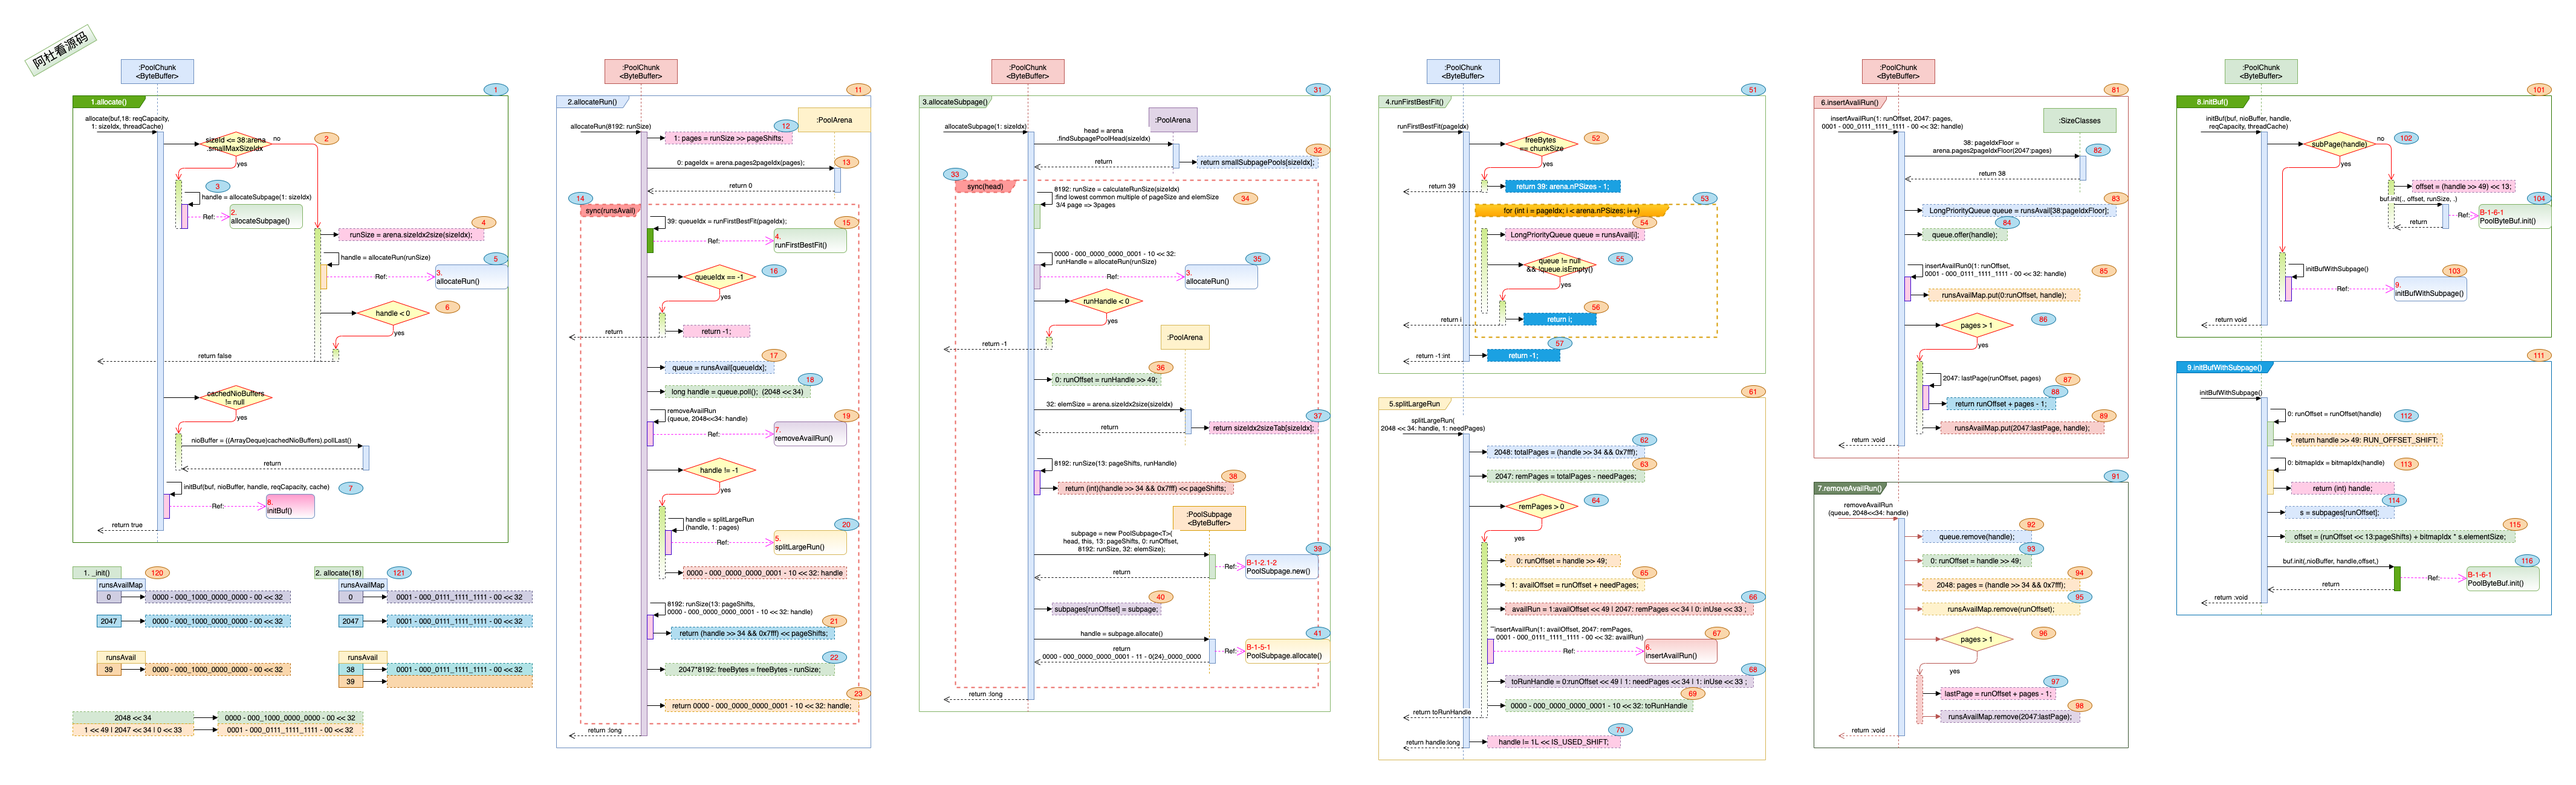
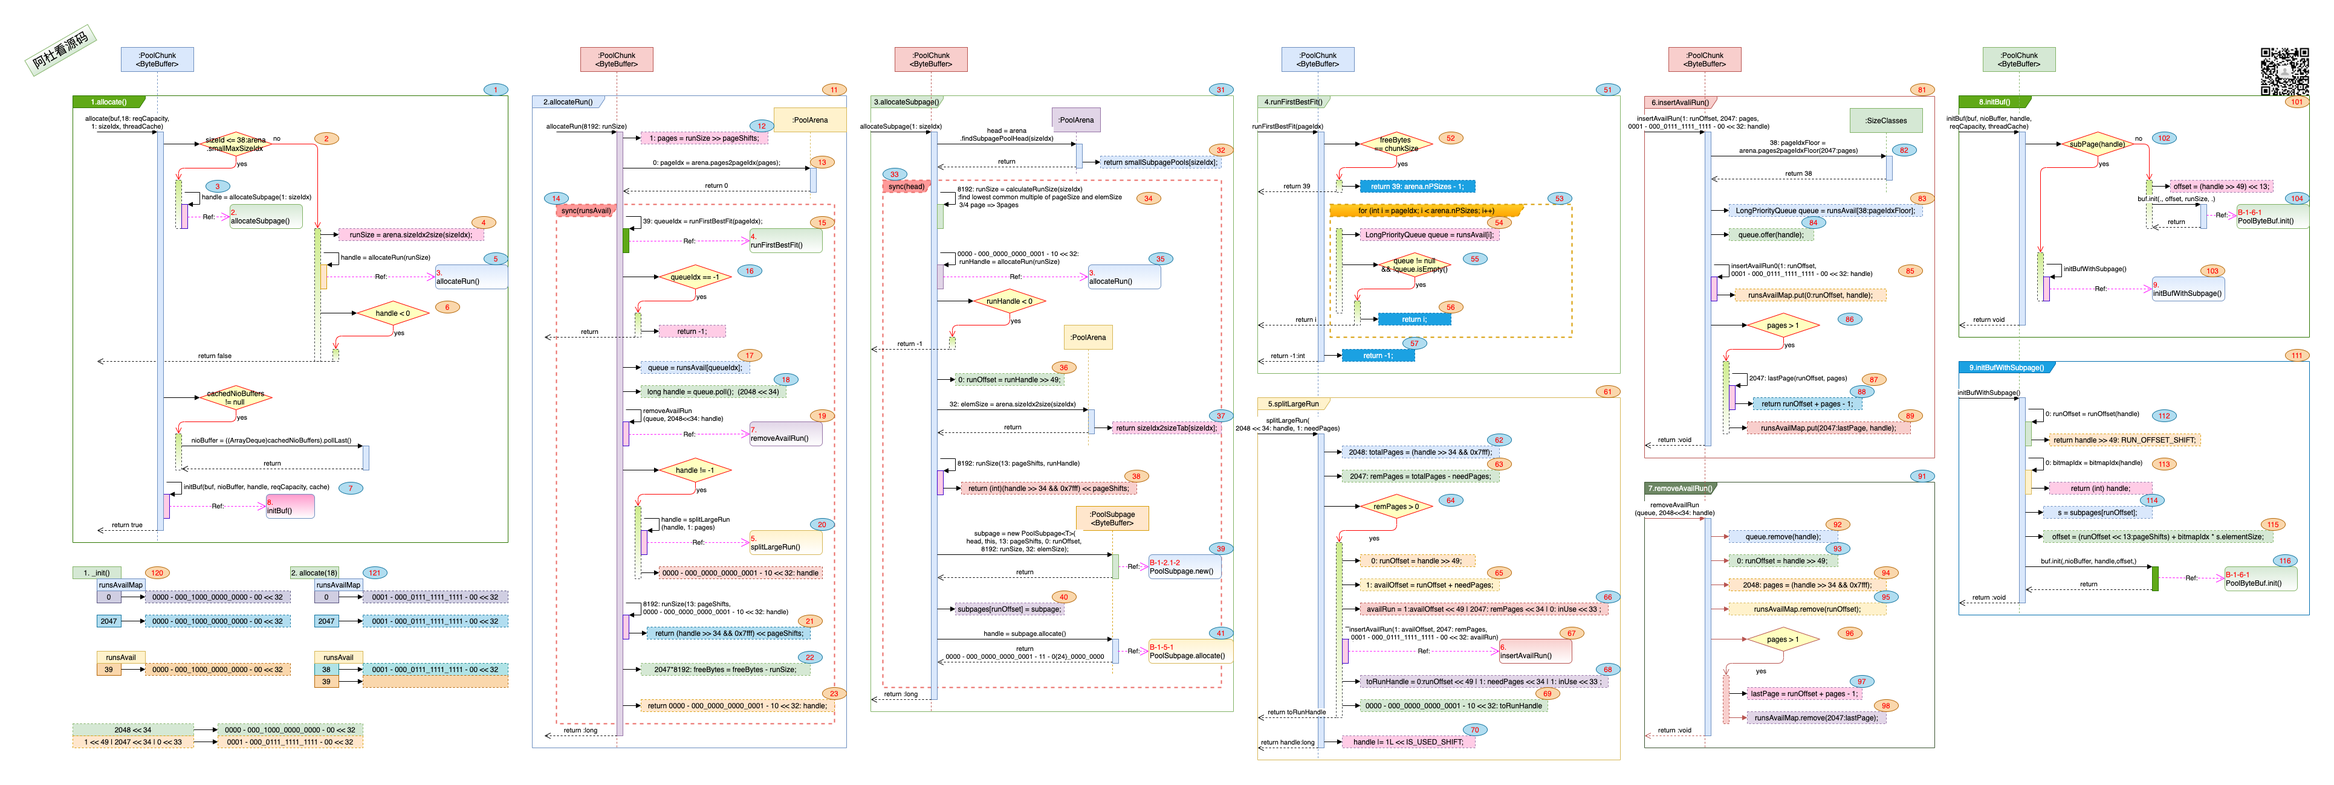
1. PoolArena开始编写. 2. 增加微信公众号图片.

diff --git a/netty_4.1.66/5.PoolArena.html b/netty_4.1.66/5.PoolArena.html
@@ -767,9 +767,9 @@ g[data-mml-node="xypic"] path {
   stroke-width: inherit;
 }
  :root {--mermaid-font-zoom:1em ;}  @media print { @page {margin: 0 0 0 0;} body.typora-export {padding-left: 0; padding-right: 0;} #write {padding:0;}}
-</style><title>4.PoolChunkList</title>
+</style><title>5.PoolArena</title>
 </head>
 <body class='typora-export'><div class='typora-export-content'>
-<div id='write'  class=''><h2 id='nettypooledbytebuf4poolchunklist'><span>Netty_PooledByteBuf_4.PoolChunkList</span></h2><h3 id='一-干什么'><span>一. 干什么?</span></h3><ol start='' ><li><span>按楼层下的空置率来进行分级管理, 大远看去一幢楼, 最空旷的楼层在最下面, 最拥挤的楼层在最上面.  </span></li><li><span>楼层所属的分级是变化的, 空置率变化后, 会在不同的分级间游走. 没血了就回家, 有血了就往上冲.</span></li></ol><p>&nbsp;</p><h3 id='二-打算怎么干'><span>二. 打算怎么干? </span></h3><ol start='' ><li><p><span>通过定义不同的空置率级别(min, max), 将整个楼分成不同的级别, 第个级别(PoolChunkList)下的空置率都在(min, max)范围内.</span></p></li><li><p><span>随着楼层中空间的分配与回收, 空置率发生变化, 判断是否在不同级别(PoolChunkList)间是升还是降.</span></p><p>&nbsp;</p></li></ol><h3 id='三-具体实现'><span>三. 具体实现:</span></h3><ol start='' ><li><h4 id='先看下初始化方法与数据结构'><span>先看下初始化方法与数据结构:</span></h4><blockquote><p><img src="./images/3.PooledByteBufAllocator/2.DataStructure-3.PoolChunkList.png" referrerpolicy="no-referrer" alt="PoolChunkList初始化及数据结构"></p><ul><li><p><span>图中标号: </span><strong><span>1</span></strong><span>. 属于那幢楼(arena).</span></p></li><li><p><span>图中标号: </span><strong><span>2</span></strong><span>. 最高的那一级(nextList)是什么?</span></p></li><li><p><span>图中标号: </span><strong><span>3, 4</span></strong><span>. 闲置率的边界的百分比(minUsage, maxUsage). </span></p></li><li><p><span>图中标号: </span><strong><span>5</span></strong><span>. 该分级下最大能满足的空间分配是多少(maxCapacity). 闲置率边界是用来进行分级管理的, maxCapacity表示的是可分配空间, 有可能分配完了, 会进行跳级.</span></p></li><li><p><span>图中标号: </span><strong><span>6, 7</span></strong><span>. 计算闲置的边界字节数.</span></p></li><li><p><span>图中标号: </span><strong><span>11</span></strong><span>. 一幢楼的分级管理(PoolArena), 从qInit到q100分了6级来管理. 1-5表示随着分配, 楼层的空置率的变化及在不同的分级(PoolChunkList)内上升, 6-9表示随着空间的释放, 空置率越来越高, 在不同的分级中的下降. </span></p><p><strong><span>这里要注意:</span></strong><span> 10.free, 因为q000的prev是空的, 所以如果楼层如果空置超过q000的freeMaxThreshold, 16777215----15.9M, 也就是16M空间都是空置时, 该楼层不会下降到qInit, 而是直接从管理分级中移除了. </span></p><figure><table><thead><tr><th style='text-align:center;' ><span>分级</span></th><th style='text-align:center;' ><span>minUsage</span></th><th style='text-align:center;' ><span>maxUsage</span></th><th style='text-align:center;' ><span>freeMinThreshold</span></th><th style='text-align:center;' ><span>freeMaxThreshold</span></th><th style='text-align:center;' ><span>maxCapacity</span></th></tr></thead><tbody><tr><td style='text-align:center;' ><span>qInit</span></td><td style='text-align:center;' ><span>-2147483648</span></td><td style='text-align:center;' ><span>25</span></td><td style='text-align:center;' ><span>12750684----12.1M</span></td><td style='text-align:center;' ><span>2147483647----2048M</span></td><td style='text-align:center;' ><span>16609443----15.8M</span></td></tr><tr><td style='text-align:center;' ><span>q000</span></td><td style='text-align:center;' ><span>1</span></td><td style='text-align:center;' ><span>50</span></td><td style='text-align:center;' ><span>8556380----8.15M</span></td><td style='text-align:center;' ><span>16777215----15.9M</span></td><td style='text-align:center;' ><span>16609443----15.8M</span></td></tr><tr><td style='text-align:center;' ><span>q025</span></td><td style='text-align:center;' ><span>25</span></td><td style='text-align:center;' ><span>75</span></td><td style='text-align:center;' ><span>4362076----4.15M</span></td><td style='text-align:center;' ><span>12750684----12.1M</span></td><td style='text-align:center;' ><span>12582912----12M</span></td></tr><tr><td style='text-align:center;' ><span>q050</span></td><td style='text-align:center;' ><span>50</span></td><td style='text-align:center;' ><span>100</span></td><td style='text-align:center;' ><span>0</span></td><td style='text-align:center;' ><span>8556380----8.15M</span></td><td style='text-align:center;' ><span>8388608----8M</span></td></tr><tr><td style='text-align:center;' ><span>q075</span></td><td style='text-align:center;' ><span>75</span></td><td style='text-align:center;' ><span>100</span></td><td style='text-align:center;' ><span>0</span></td><td style='text-align:center;' ><span>4362076----4.15M</span></td><td style='text-align:center;' ><span>4194304----4M</span></td></tr><tr><td style='text-align:center;' ><span>q100</span></td><td style='text-align:center;' ><span>100</span></td><td style='text-align:center;' ><span>2147483647</span></td><td style='text-align:center;' ><span>-2147483648----2048M</span></td><td style='text-align:center;' ><span>0</span></td><td style='text-align:center;' ><span>0</span></td></tr></tbody></table></figure></li></ul></blockquote></li><li><h4 id='空间的分配与释放'><span>空间的分配与释放:</span></h4><blockquote><p><span>上图: </span><img src="./images/3.PooledByteBufAllocator/1.MainFlow-3.PoolChunkList.png" referrerpolicy="no-referrer" alt="PoolChunkList allocate&amp;free"></p><ol start='' ><li><p><span>图中标号: </span><strong><span>1</span></strong><span>, allocate(): 从该ChunkList下的楼层分配空间, 该List下的楼层空置率都在一个范围内, 以链表的结构连接在一起.</span></p><ul><li><span>图中标号: </span><strong><span>2</span></strong><span>, 根据sizeIdx取空间需求的标准化值.</span></li><li><span>图中标号: </span><strong><span>3</span></strong><span>, 如果要申请的空间大于该PoolChunkList的最大可分配空间, 那么直接返回分配不了.</span></li><li><span>图中标号: </span><strong><span>4</span></strong><span>, 扫楼操作: 遍历该List下的所有楼层, 有楼层能分配就直接退出遍历, 返回结果(图中标号: </span><strong><span>8</span></strong><span> ). 如果所有的楼层都不能满足空间需求, 返回分配失败(图中标号: </span><strong><span>9</span></strong><span>).</span></li><li><span>图中标号: </span><strong><span>5</span></strong><span>, 特定楼层(PoolChunk)进行空间分配. 如果分配成功, 检测下该楼层(cur: PoolChunk)还有多少闲置空间(freeBytes), 如果闲置空间少于该分级下的空间率下限(freeMinThreshold), 先把该楼层从本身的列表中移走(图中标号: </span><strong><span>7</span></strong><span>), 再把该楼层转给下一级PoolChunkList(nextList.add(cur), 图中标号: </span><strong><span>8</span></strong><span>. </span></li></ul></li></ol><p>&nbsp;</p><ol start='2' ><li><p><span>图中标号: </span><strong><span>11</span></strong><span>, add(): 尝试将楼层加入到当前有PoolChunkList中.</span></p><ul><li><span>图中标号: </span><strong><span>12</span></strong><span>, 如果要加入的楼层的空置空间(chunk.freeBytes)小于最小边界(freeMinThreshold), 则往空置率更小的分级推(图中标号: </span><strong><span>13</span></strong><span>), 然后直接返回(图中标号: </span><strong><span>14</span></strong><span>).</span></li><li><span>图中标号: </span><strong><span>15</span></strong><span>, 如果空置率在范围内, 则将楼层加入到该PoolChunkList管理的楼层列表中(图中标号: </span><strong><span>15</span></strong><span>).</span></li></ul></li></ol><p>&nbsp;</p><ol start='3' ><li><p><span>图中标号: </span><strong><span>21</span></strong><span>, free(): 该分级下的楼层进行空间回收, 这里所做的空间回收只是对空间是否使用进行标记, 标记的更改肯定会被执行, free()返回false时, 表示该楼层可以被destroy, 楼层对应的内存可以销毁.</span></p><ul><li><span>图中标号: </span><strong><span>22</span></strong><span>, 先对楼层进行空间释放, 如果释放完空间后, 闲置的空间大于该分级下的最大值上限(freeMaxThreshold)(图中标号: </span><strong><span>23</span></strong><span>), 说明该楼层有更大的富余空间, 应该将该楼层进行下移(相对于结构图来说), 那么先将该楼层从该分级(PoolChunkList)的列表中移除(图中标号: </span><strong><span>24</span></strong><span>), 再将该楼层进行下移(图中标号: </span><strong><span>25</span></strong><span>, move0()), 返回是否下移成功了(图中标号: </span><strong><span>26</span></strong><span>), 如果下移不成功, 表明没人要这个楼层了, 这个楼层是全空的, 那这个楼层可以销毁了.</span></li><li><span>图中标号: </span><strong><span>27</span></strong><span>, 如果楼层释放资源成功了, 也不用对楼层进行下移操作, 则返回true.</span></li></ul></li></ol><p>&nbsp;</p><ol start='4' ><li><p><span>图中标号: </span><strong><span>31</span></strong><span>, move0(): 因为楼层的闲置空间多了, 向下移动楼层. </span></p><ul><li><span>图中标号: </span><strong><span>32</span></strong><span>, 如果该分级的向下分级(prevList)没有了, 那说明这个楼层不能向下移动了, 没人要了, 返回false(图中标号: </span><strong><span>33</span></strong><span>).</span></li><li><span>图中标号: </span><strong><span>34</span></strong><span>, 将楼层向下移动, 并返回是否移动成功(图中标号: </span><strong><span>35</span></strong><span>). </span></li></ul></li></ol><p>&nbsp;</p><ol start='5' ><li><p><span>图中标号: </span><strong><span>41</span></strong><span>, move(): 该分级下接收到一个楼层的下移申请, 看能不能接纳它.</span></p><ul><li><span>图中标号: </span><strong><span>42</span></strong><span>, 先核对一下申请楼层的闲置空间是不是在自己的可控范围内(freeMaxThreshold), 如果不在自己范围内, 尝试对楼层进行下移(图中标号: </span><strong><span>43</span></strong><span>), 并返回下移的结果.</span></li><li><span>图中标号: </span><strong><span>45</span></strong><span>, 如果在自己的分级管理范围内, 将楼层加入到管理列表(图中标号: </span><strong><span>45</span></strong><span>), 返回成功(图中标号: </span><strong><span>46</span></strong><span>).</span></li></ul></li></ol><p>&nbsp;</p><ol start='6' ><li><p><span>图中标号: </span><strong><span>51</span></strong><span>, remove(): 将楼层从自己的管理列表中移除.</span></p><ul><li><span>图中标号: </span><strong><span>52</span></strong><span>, 如果该楼层是head的情况下.</span></li><li><span>图中标号: </span><strong><span>53</span></strong><span>, 如果该楼层不是head的情况下.</span></li></ul></li></ol><p>&nbsp;</p><ol start='7' ><li><p><span>图中标号: </span><strong><span>61</span></strong><span>, add0(): 将楼层加入到自己的管理列表中.</span></p><ul><li><span>图中标号: </span><strong><span>62</span></strong><span>, 如果该楼层head是空的情况下.</span></li><li><span>图中标号: </span><strong><span>63</span></strong><span>, 如果该楼层head不为空的情况下.</span></li></ul></li></ol><p>&nbsp;</p><ol start='8' ><li><span>图中标号: </span><strong><span>71</span></strong><span>, 随着特定楼层下空间的分配, 该楼层的使用率不断增长, 随着使用率的增长, 该楼层在不同的PoolChunkList分级下从qInit -&gt; q100的过程.</span></li><li><span>图中标号: </span><strong><span>81</span></strong><span>, 随着特定楼层下空间的释放, 该楼层的使用率不断降低, 随着使用率的减少, 该楼层在不同的PoolChunkList分级下从q100 -&gt; q000, 的过程, 直至从q000再被踢出来接下来要销毁的过程.</span></li></ol></blockquote></li></ol><p>&nbsp;</p><h3 id='四-写在最后'><span>四. 写在最后:</span></h3><ol start='' ><li><span>PoolChunkList管理的楼层列表, 虽然空置率在相应的范围内, 但是每个楼的碎片化不同, 随着时间推移, 空间的分配与回收下, 会有不同程度的碎片, 也就是说即使总的闲置空间能满足需求, 但是却没有连续的空间能真正分配.</span></li><li><span>PoolChunkList的列表管理是非线程安全的.如果在qInit, q000, 等这一级按qInit这些对象进行加锁, 如果管理列表下的楼层很多, 性能是不是会受影响.</span></li></ol></div></div>
+<div id='write'  class=''><h2 id='nettypooledbytebuf5poolarena'><span>Netty_PooledByteBuf_5.PoolArena</span></h2><h3 id='一-干什么'><span>一. 干什么?</span></h3><ol start='' ><li><span>Soho卖给了黑石, 一幢楼要出租, 不同需求的客户都来了, 有要大面积的, 有要小工位的, 怎么管?</span></li><li></li></ol><p>&nbsp;</p><h3 id='二-打算怎么干'><span>二. 打算怎么干? </span></h3><ol start='' ><li><p><span>怎么管? 分开管, 分级管.</span></p><p>&nbsp;</p></li></ol><h3 id='三-初始化及数据结构'><span>三. 初始化及数据结构:</span></h3><p><img src="./images/3.PooledByteBufAllocator/2.DataStructure-3.PoolArena.png" referrerpolicy="no-referrer" alt="PoolArena Structure"></p><blockquote><p>&nbsp;</p></blockquote></div></div>
 </body>
 </html>

diff --git a/netty_4.1.66/5.PoolArena.md b/netty_4.1.66/5.PoolArena.md
@@ -11,13 +11,26 @@
 
 1. 怎么管? 分开管, 分级管. 
 
-2. 随着楼层中空间的分配与回收, 空置率发生变化, 判断是否在不同级别(PoolChunkList)间是升还是降.
+2. 分级是什么, 就像买衣服, 码号都标准化了, 170, 175, 180. S码, M码, L码.  177的买什么码, 往大里靠, 买180码.
 
    
 
 
-### 三. 具体实现:
+### 三. 初始化及数据结构:
 
-1. #### 初始化及数据结构: 
+![PoolArena Structure](./images/3.PooledByteBufAllocator/2.DataStructure-4.PoolArena.png)
 
-   > ![PoolArena Structure](./images/3.PooledByteBufAllocator/2.DataStructure-3.PoolArena.png)
+1. 初始化方法与数据结构: 
+
+   > - 图中标号: **1**. PoolArena继承自SizeClasses, 这样使用SizeClasses中的码表进行标准化.
+   > - 图中标号: **2**. 取自SizeClasses中的nSubpages, 共享空间都有那些尺码.
+   > - 图中标号: **3, 4, 5, 6**. 共享空间下每种尺码, 都创建了一个链表来管理同等尺码下的共享空间, 默认都是有head头.
+   > - 图中标号: **7**. 这一幛楼里的每一层, 按楼层的使用率分级到qInit, q000, q100等6个分级下.
+
+### 四. 分配与回收方法:
+
+1. 
+
+
+
+> 1. 

diff --git a/netty_4.1.66/4.PoolChunkList.md b/netty_4.1.66/4.PoolChunkList.md
@@ -20,7 +20,7 @@
 
 1. #### 先看下初始化方法与数据结构:
 
-   > ![PoolChunkList初始化及数据结构](./images/3.PooledByteBufAllocator/2.DataStructure-5.PoolChunkList.png)
+   > ![PoolChunkList初始化及数据结构](./images/3.PooledByteBufAllocator/2.DataStructure-3.PoolChunkList.png)
    >
    > - 图中标号: **1**. 属于那幢楼(arena).
    >
